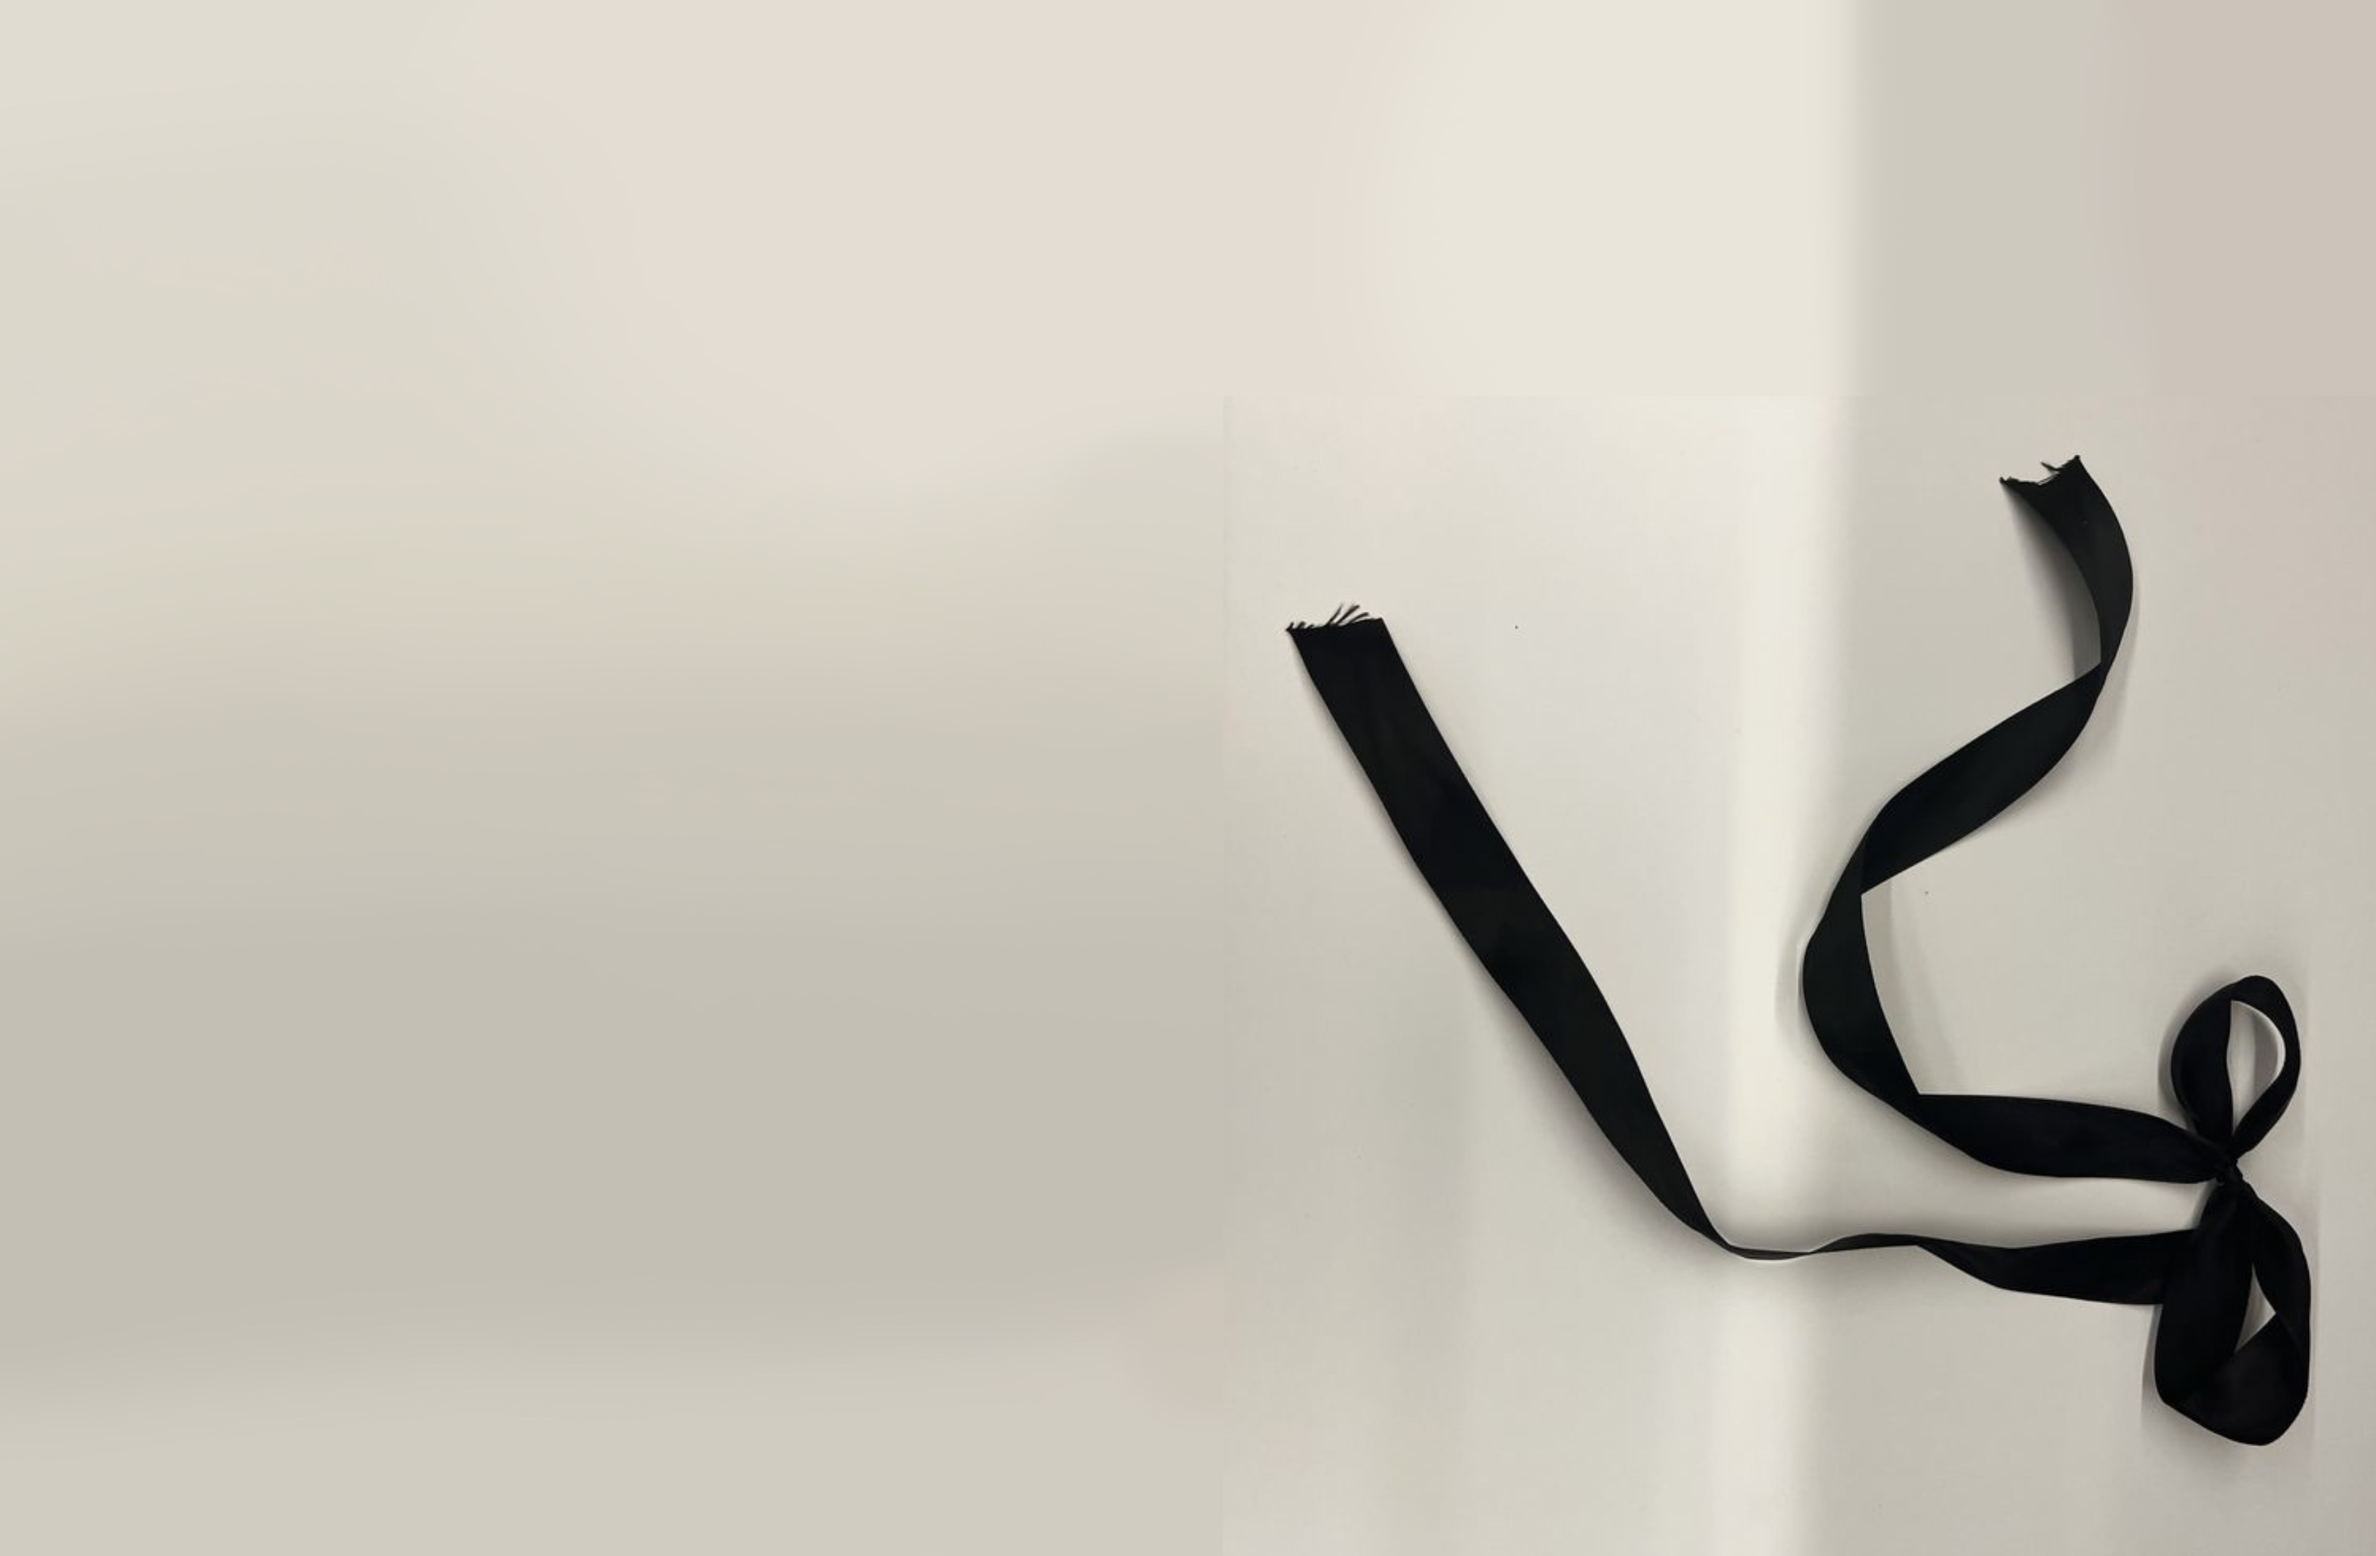
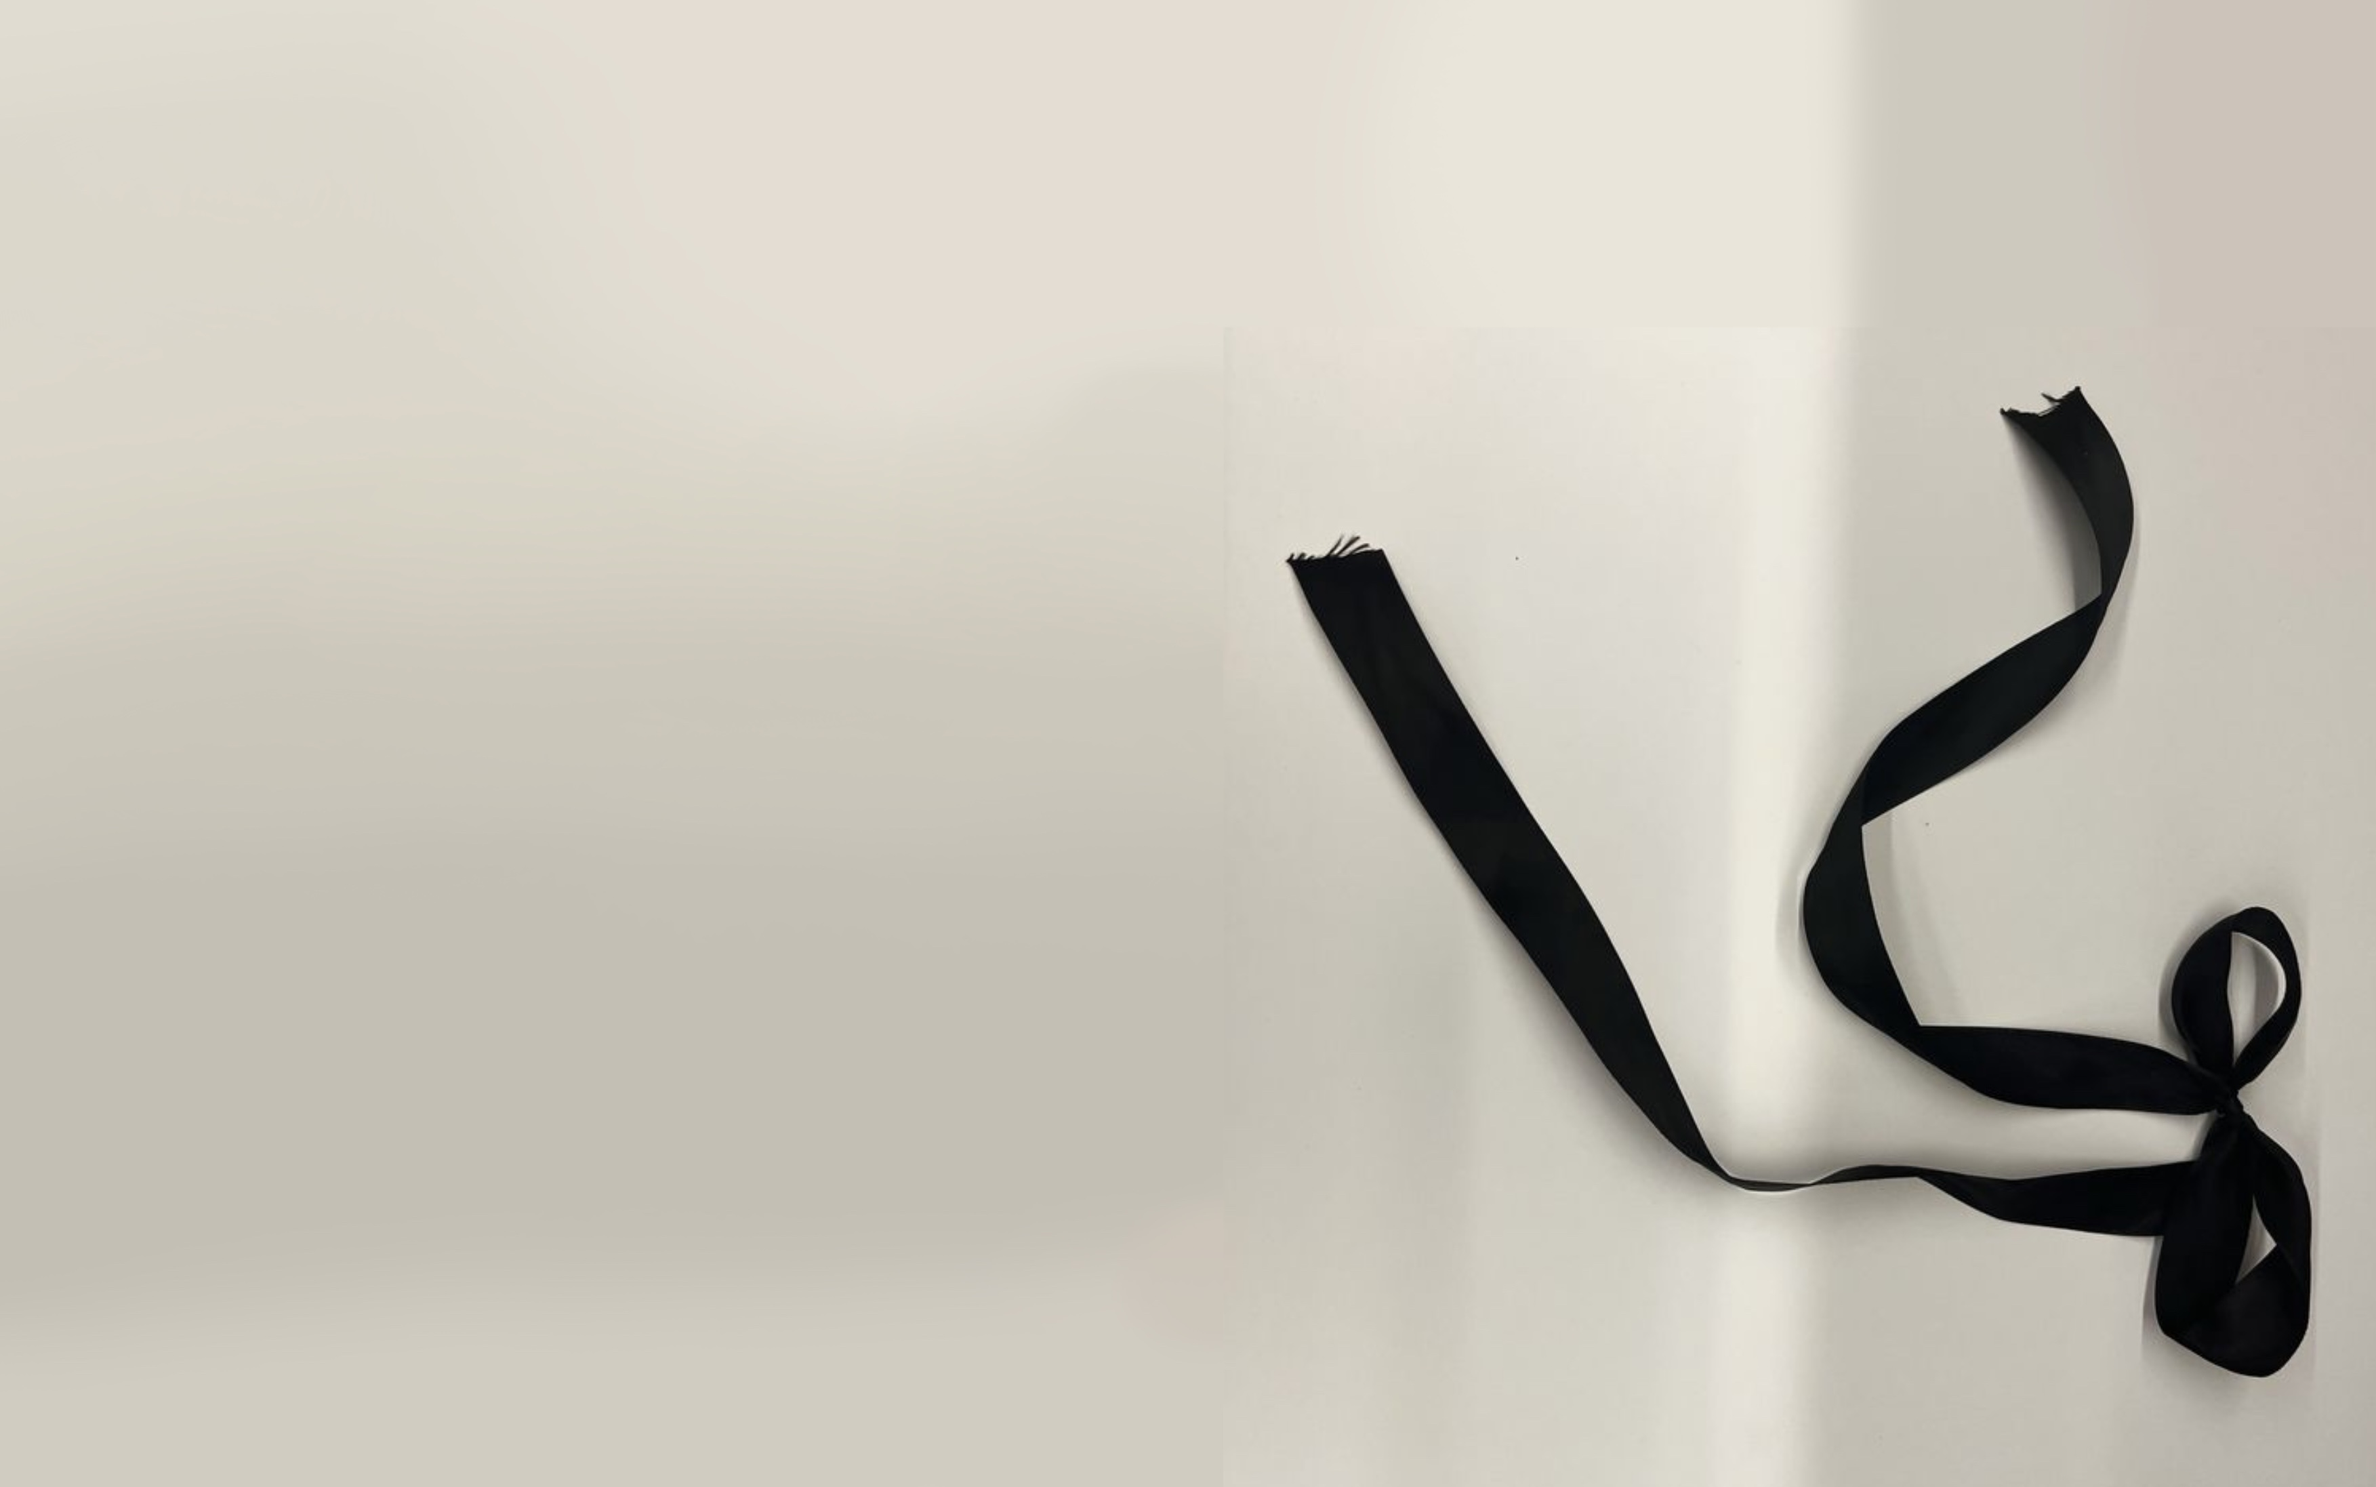
lol

Changed region(s): [[0.5285, 0.2479, 0.9638, 0.8368], [0.9016, 0.8988, 0.9638, 0.9298], [0.9327, 0.8368, 0.9638, 0.8678]]

diff --git a/style.css b/style.css
@@ -65,11 +65,11 @@ section {
 
 #profile {
     display: flex;
-    flex-direction: column; /* Flexbox in Spaltenrichtung */
+    flex-direction: column;
     height: 80vh;
     padding-left: 8rem;
-    background-size: cover; /* Das Bild wird so skaliert, dass es den gesamten Hintergrund ausfüllt */
-    background-position: center; /* Das Bild wird horizontal und vertikal zentriert */
+    background-size: cover;
+    background-position: top; /* Position the background image at the top of the section */
     background-repeat: no-repeat;
 }
 
